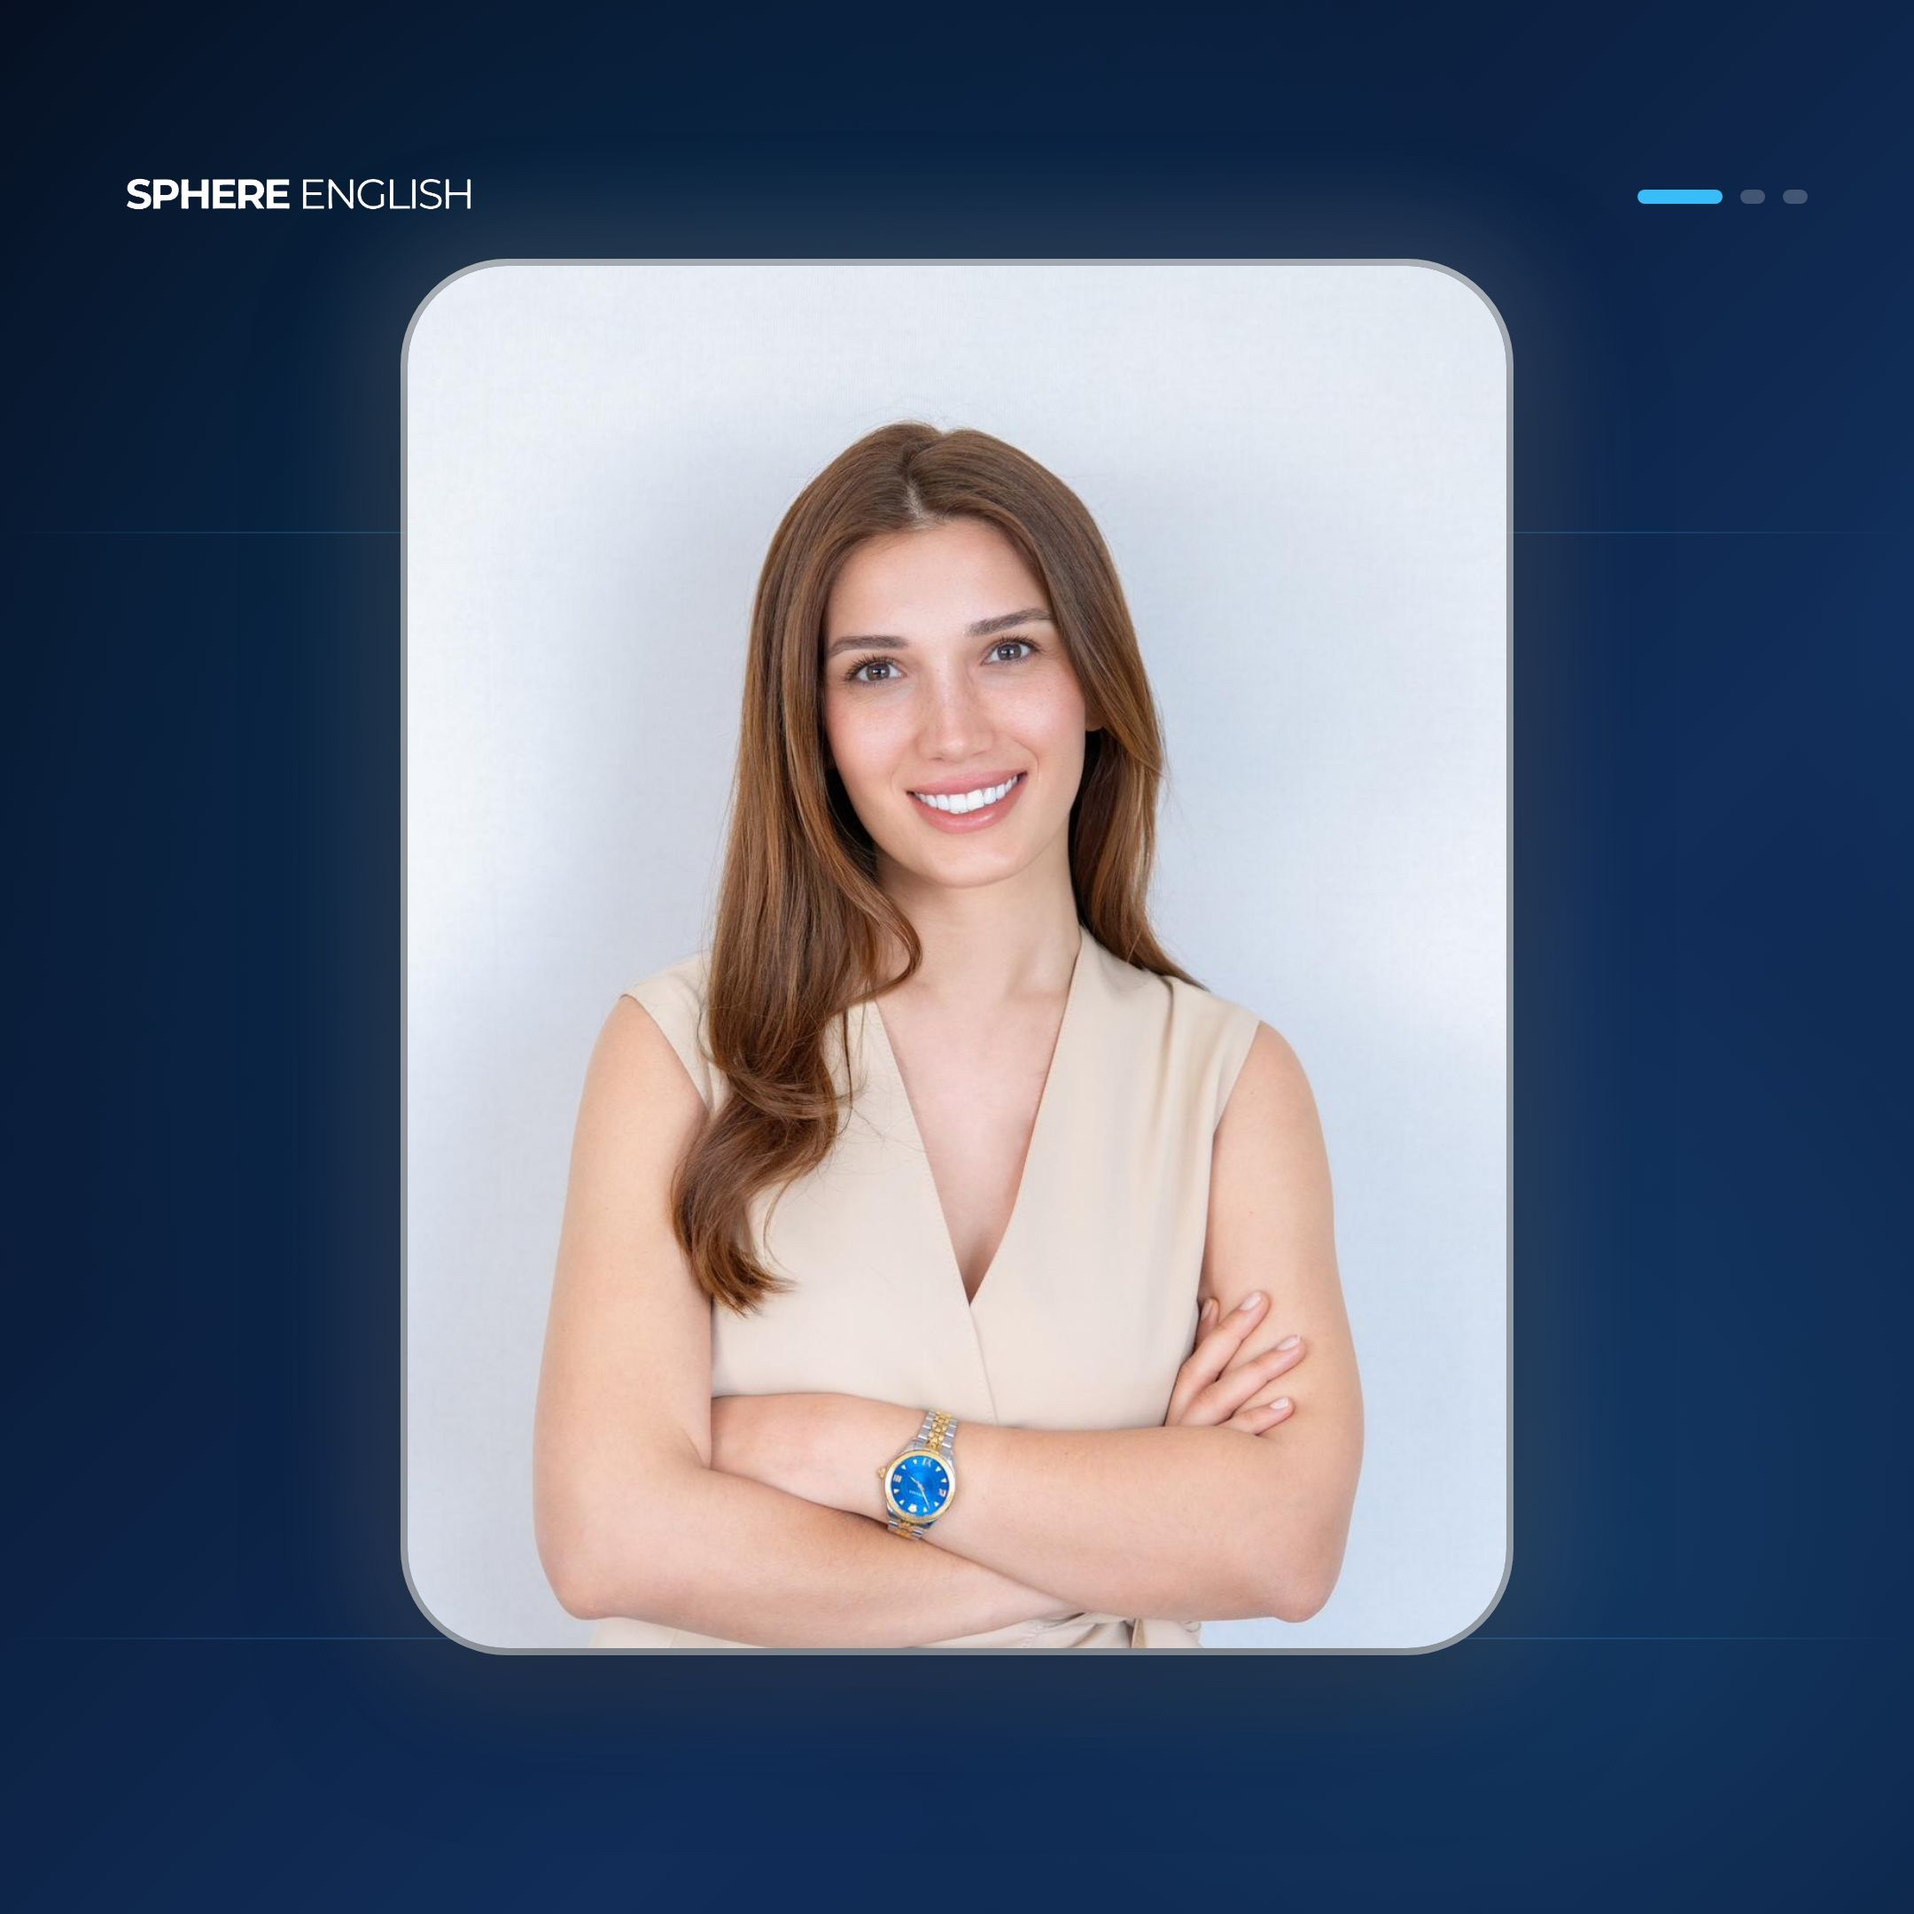
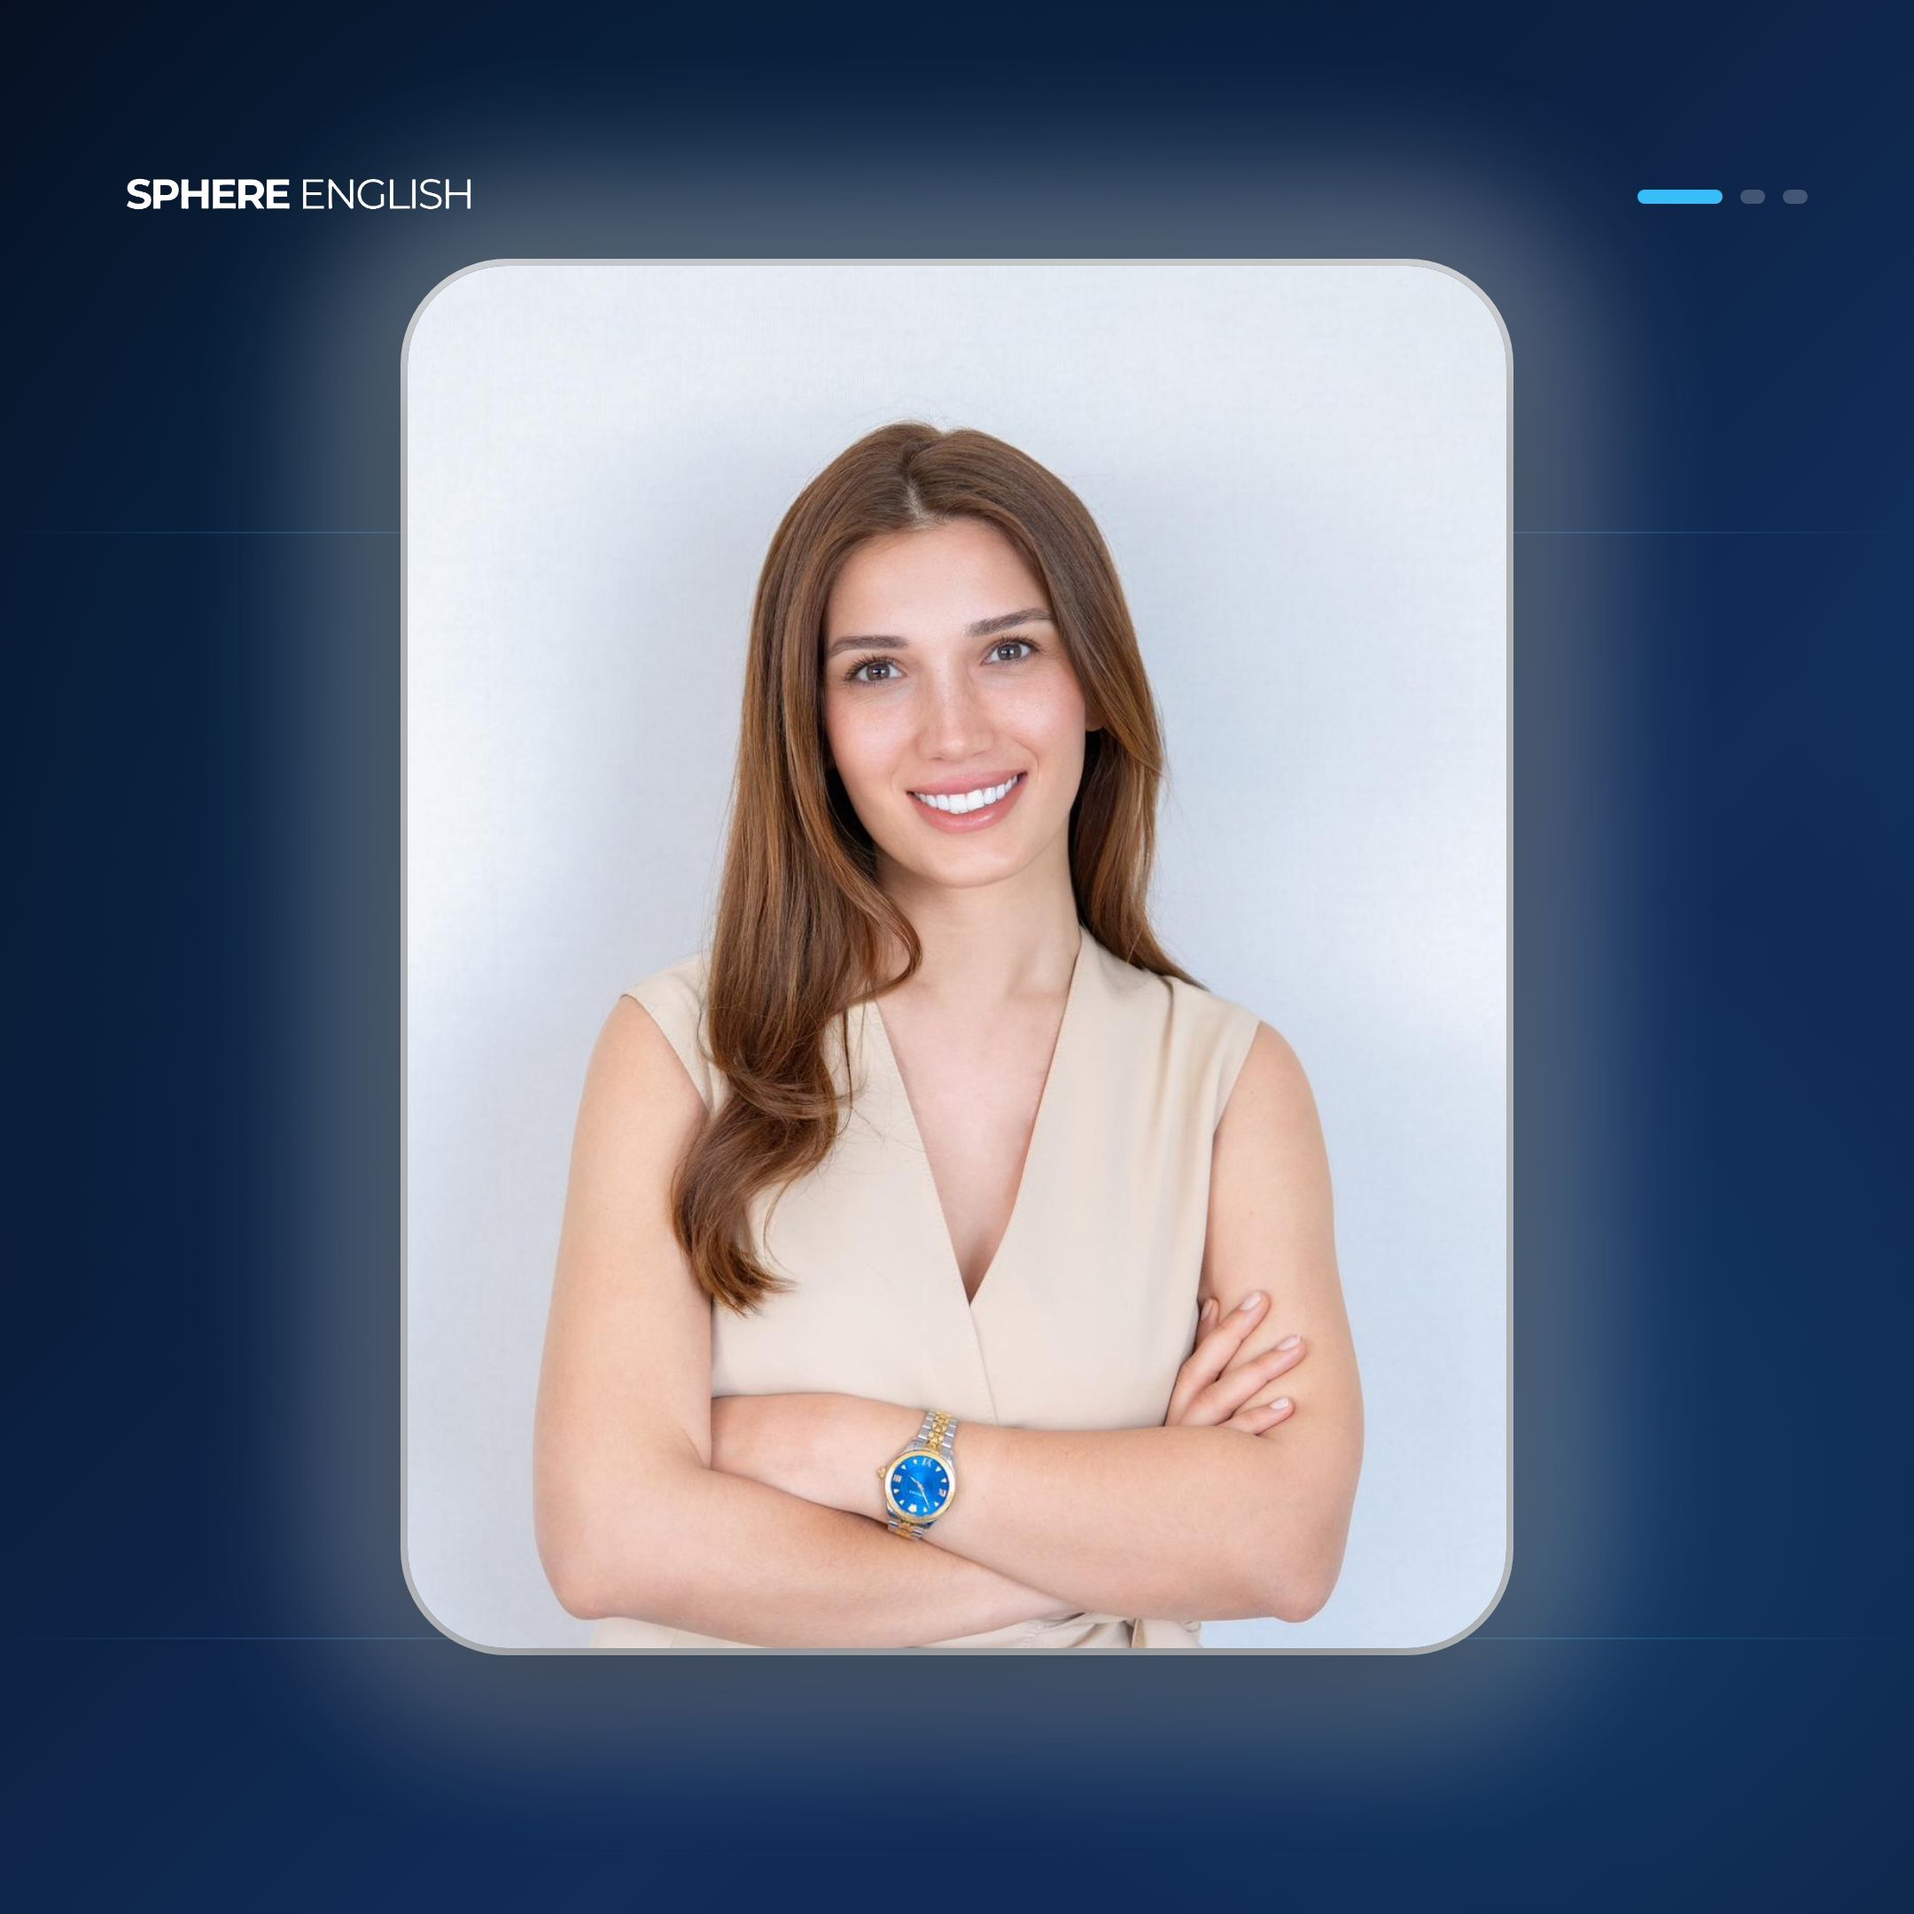
Enhance visual appeal of photos with a more pronounced white glow
Adjusted box-shadow properties in `FoundersPost.tsx` to increase the intensity and spread of the white glow effect around the images, also updated `panel-1-didem.jpg` and `panel-3-merve.jpg`

Replit-Commit-Author: Agent
Replit-Commit-Session-Id: 7828208e-226c-43ef-9a3e-875997ce7956
Replit-Commit-Checkpoint-Type: full_checkpoint
Replit-Commit-Event-Id: 05047f33-1257-4e2b-ac15-349226ea6cb2
Replit-Commit-Screenshot-Url: https://storage.googleapis.com/screenshot-production-us-central1/f780e6cf-cd3b-477f-8b05-3e4b163e7069/7828208e-226c-43ef-9a3e-875997ce7956/rZXC6s9
Replit-Helium-Checkpoint-Created: true

Changed region(s): [[0.1551, 0.062, 0.8685, 0.9306]]

diff --git a/artifacts/mockup-sandbox/src/components/mockups/instagram-post/FoundersPost.tsx b/artifacts/mockup-sandbox/src/components/mockups/instagram-post/FoundersPost.tsx
@@ -87,7 +87,7 @@ const PhotoPanel = ({ src, alt, dots }: { src: string; alt: string; dots: number
         height: CARD_H,
         borderRadius: px(56),
         overflow: "hidden",
-        boxShadow: `0 ${px(20)}px ${px(80)}px rgba(0,0,0,0.50), 0 0 0 ${px(4)}px rgba(255,255,255,0.70), 0 0 ${px(60)}px ${px(20)}px rgba(255,255,255,0.18)`,
+        boxShadow: `0 ${px(20)}px ${px(80)}px rgba(0,0,0,0.50), 0 0 0 ${px(4)}px rgba(255,255,255,0.85), 0 0 ${px(80)}px ${px(40)}px rgba(255,255,255,0.40)`,
         flexShrink: 0,
         zIndex: 1,
       }}>
